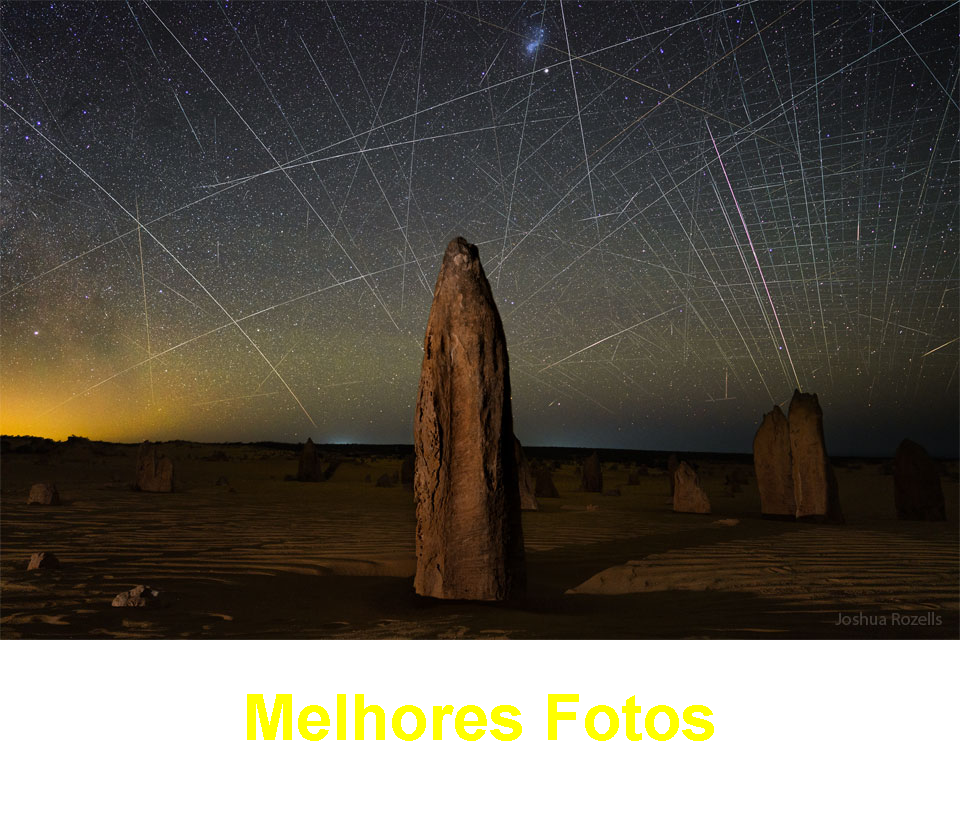
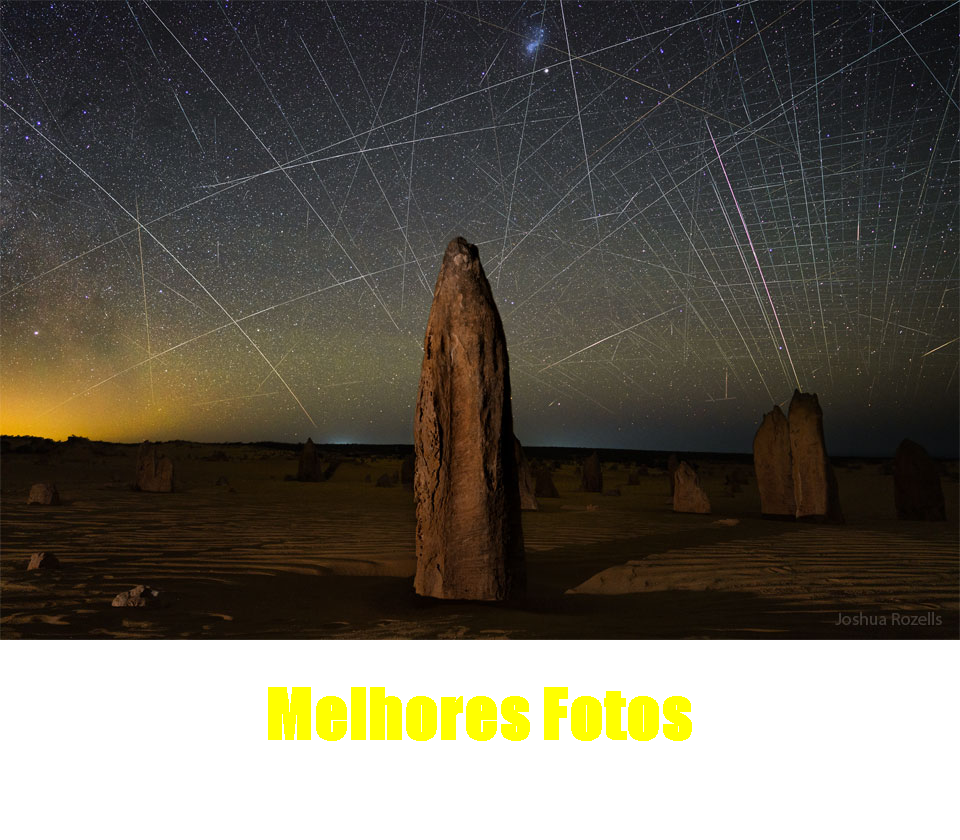
mudado a fonte para impact

Changed region(s): [[0.25, 0.8048, 0.75, 0.8976]]

diff --git a/Alura-stickers/src/FabricaDeFigurinhas.java b/Alura-stickers/src/FabricaDeFigurinhas.java
@@ -35,7 +35,7 @@ public class FabricaDeFigurinhas {
 
     // configurar fonte
 
-    Font fonte = new Font(Font.SANS_SERIF, Font.BOLD, 64);
+    Font fonte = new Font("Impact", Font.BOLD, 64);
     graphics.setFont(fonte);
     graphics.setColor(Color.YELLOW);
 
